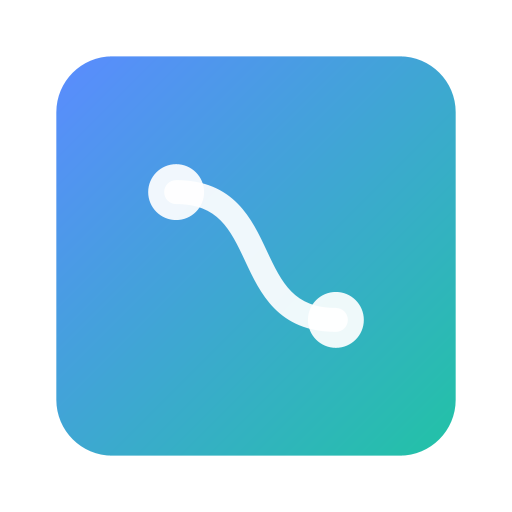
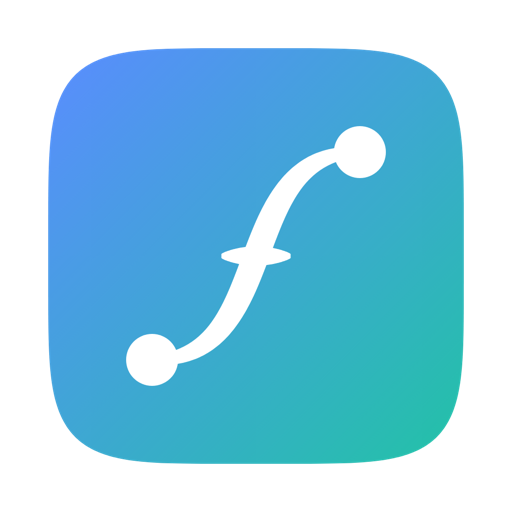
Rewrite the Flow intro page for the current app
The old page still pitched Flow as sources/transforms/sinks with a
built-in Crypto/Hash/Merge/Split/Sleep set — module install now goes
through a registry, categories are input/processor/output/part, and
neither AI-assisted building nor pluggable result views (ASN.1, Image)
were mentioned at all. Rewritten from the current app's own screenshots
and copy, with an EN/한국어 toggle. New app icon (the current wire-node
mark, not the old plain one).

Claude-Session: https://claude.ai/code/session_01QRGoVkwbWL6L911SzTzMtK

Changed region(s): [[0.2188, 0.2188, 0.7812, 0.7812], [0.0938, 0.0938, 0.9062, 0.9062]]

diff --git a/flow/index.html b/flow/index.html
@@ -3,8 +3,8 @@
 <head>
   <meta charset="utf-8">
   <meta name="viewport" content="width=device-width, initial-scale=1">
-  <title>Flow — Visual Dataflow Editor</title>
-  <meta name="description" content="Flow is a visual, node-based dataflow editor. Build data pipelines by wiring modules together — no code required.">
+  <title>Flow — a desktop workbench for connecting data</title>
+  <meta name="description" content="Flow is a desktop workbench for wiring data through modules on a canvas — install what you need from the market, build with AI, and read results in a view that suits them.">
   <link rel="icon" href="appicon.png">
   <style>
     :root {
@@ -16,15 +16,21 @@
       --dim: #8a90a2;
       --accent: #5b8cff;
       --accent-soft: #7aa1ff;
-      --green: #2b7a5c;
+      --yellow: #f2c94c;
+      --blue: #4fa3ff;
+      --purple: #b07bff;
+      --cyan: #62c6ff;
     }
     * { box-sizing: border-box; }
     html, body {
       margin: 0; padding: 0; background: var(--bg); color: var(--text);
-      font-family: -apple-system, BlinkMacSystemFont, "Segoe UI", Roboto, sans-serif;
+      font-family: -apple-system, BlinkMacSystemFont, "Segoe UI", Roboto, "Apple SD Gothic Neo", sans-serif;
     }
     a { color: inherit; }
-    .wrap { max-width: 980px; margin: 0 auto; padding: 0 24px; }
+    .wrap { max-width: 1040px; margin: 0 auto; padding: 0 24px; }
+    [lang-ko] { display: none; }
+    html[data-lang="ko"] [lang-en] { display: none; }
+    html[data-lang="ko"] [lang-ko] { display: revert; }
 
     header.top {
       border-bottom: 1px solid var(--border);
@@ -32,12 +38,24 @@
       backdrop-filter: blur(8px);
       position: sticky; top: 0; z-index: 10;
     }
-    header.top .wrap { display: flex; align-items: center; justify-content: space-between; height: 64px; }
+    header.top .wrap { display: flex; align-items: center; justify-content: space-between; height: 64px; gap: 16px; flex-wrap: wrap; }
     .brand { display: flex; align-items: center; gap: 10px; font-weight: 700; font-size: 17px; text-decoration: none; }
     .brand img { width: 28px; height: 28px; border-radius: 7px; }
-    .hero { padding: 72px 0 40px; text-align: center; }
-    .hero h1 { font-size: 40px; margin: 0 0 14px; letter-spacing: -0.02em; }
-    .hero p.tagline { font-size: 17px; color: var(--dim); max-width: 560px; margin: 0 auto 30px; line-height: 1.6; }
+    nav.crumbs { display: flex; gap: 20px; font-size: 13.5px; }
+    nav.crumbs a { color: var(--dim); text-decoration: none; }
+    nav.crumbs a:hover { color: var(--text); }
+
+    .langsw { display: flex; border: 1px solid var(--border); border-radius: 999px; overflow: hidden; font-size: 12.5px; }
+    .langsw button {
+      appearance: none; border: none; background: transparent; color: var(--dim);
+      padding: 6px 13px; font: inherit; cursor: pointer;
+    }
+    .langsw button.on { background: var(--accent); color: #fff; }
+
+    .hero { padding: 68px 0 40px; text-align: center; }
+    .hero img.mark { width: 64px; height: 64px; border-radius: 15px; margin: 0 auto 24px; display: block; }
+    .hero h1 { font-size: 40px; margin: 0 0 16px; letter-spacing: -0.02em; line-height: 1.2; }
+    .hero p.tagline { font-size: 16.5px; color: var(--dim); max-width: 620px; margin: 0 auto 30px; line-height: 1.7; }
 
     .cta-row { display: flex; gap: 12px; justify-content: center; flex-wrap: wrap; margin-bottom: 8px; }
     .btn {
@@ -51,32 +69,38 @@
     .btn.secondary:hover { border-color: var(--accent); }
     .platform-note { font-size: 12.5px; color: var(--dim); margin: 14px 0 0; }
 
-    .shot-wrap { padding: 12px 0 64px; }
-    .shot-frame {
-      border: 1px solid var(--border); border-radius: 14px; overflow: hidden;
-      box-shadow: 0 30px 80px -30px rgba(0,0,0,.6);
-    }
-    .shot-frame img { display: block; width: 100%; height: auto; }
+    section { padding: 60px 0; border-top: 1px solid var(--border); }
+    section.hero-shot { padding-top: 8px; border-top: none; }
+    .kicker { display: block; font-size: 12px; letter-spacing: .08em; text-transform: uppercase; color: var(--accent); margin-bottom: 16px; }
+    h2 { font-size: 28px; margin: 0; letter-spacing: -0.015em; line-height: 1.3; }
+    h3 { font-size: 18px; margin: 0; }
+    p.body { font-size: 15px; line-height: 1.8; color: var(--dim); margin: 16px 0 0; }
 
-    section.features { padding: 8px 0 72px; }
-    .grid { display: grid; grid-template-columns: repeat(3, 1fr); gap: 16px; }
-    .card {
-      background: var(--card); border: 1px solid var(--border); border-radius: 12px;
-      padding: 20px 20px 22px;
-    }
-    .card h3 { margin: 0 0 8px; font-size: 15px; }
-    .card p { margin: 0; font-size: 13.5px; color: var(--dim); line-height: 1.55; }
-    .dot { display: inline-block; width: 8px; height: 8px; border-radius: 50%; background: var(--accent); margin-right: 8px; }
+    .cols2 { display: grid; grid-template-columns: repeat(auto-fit, minmax(300px, 1fr)); gap: 28px 56px; align-items: start; }
+    figure { margin: 0; }
+    .shot { border: 1px solid var(--border); border-radius: 12px; overflow: hidden; box-shadow: 0 24px 60px -30px rgba(0,0,0,.6); }
+    .shot img { display: block; width: 100%; height: auto; }
 
-    section.modules { padding: 0 0 80px; }
-    section.modules h2 { font-size: 20px; margin: 0 0 6px; }
-    section.modules p.sub { color: var(--dim); font-size: 14px; margin: 0 0 22px; }
-    .mods { display: flex; flex-wrap: wrap; gap: 10px; }
-    .mod-pill {
-      background: var(--panel); border: 1px solid var(--border); border-radius: 999px;
-      padding: 8px 16px; font-size: 13px; color: var(--text);
-    }
-    .mod-pill b { color: var(--accent-soft); }
+    .pills { display: flex; gap: 8px; flex-wrap: wrap; margin-top: 26px; }
+    .pill { border-radius: 999px; padding: 6px 14px; font-size: 12.5px; border: 1px solid var(--border); }
+    .pill.idle { color: var(--dim); }
+    .pill.running { background: color-mix(in srgb, var(--accent) 20%, transparent); border-color: var(--accent); color: var(--accent-soft); }
+    .pill.done { background: color-mix(in srgb, #34c98e 18%, transparent); border-color: #2b7a5c; color: #6fe0b8; }
+    .pill.error { border-color: var(--dim); color: var(--dim); }
+
+    .grid4 { display: grid; grid-template-columns: repeat(auto-fit, minmax(220px, 1fr)); gap: 14px; margin-top: 32px; }
+    .card { background: var(--card); border: 1px solid var(--border); border-radius: 12px; padding: 18px 18px 20px; border-top: 2px solid var(--border); }
+    .card .kick { font-size: 10.5px; letter-spacing: .07em; color: var(--dim); margin-bottom: 6px; }
+    .card h4 { margin: 0 0 8px; font-size: 15px; }
+    .card p { margin: 0; font-size: 13.5px; color: var(--dim); line-height: 1.6; }
+    .card.in { border-top-color: var(--yellow); }
+    .card.pr { border-top-color: var(--purple); }
+    .card.out { border-top-color: var(--blue); }
+    .card.pt { border-top-color: var(--cyan); }
+
+    .stack { display: grid; gap: 16px; }
+    .views2 { display: grid; grid-template-columns: repeat(auto-fit, minmax(300px, 1fr)); gap: 40px 56px; margin-top: 8px; }
+    .views2 p.body { margin-bottom: 18px; }
 
     footer { border-top: 1px solid var(--border); padding: 28px 0; }
     footer .wrap { display: flex; justify-content: space-between; align-items: center; flex-wrap: wrap; gap: 12px; }
@@ -85,8 +109,8 @@
     footer .links a:hover { color: var(--text); }
 
     @media (max-width: 720px) {
-      .grid { grid-template-columns: 1fr; }
       .hero h1 { font-size: 30px; }
+      h2 { font-size: 23px; }
     }
   </style>
 </head>
@@ -94,60 +118,161 @@
 
   <header class="top">
     <div class="wrap">
-      <a class="brand" href="index.html"><img src="appicon.png" alt=""> Flow</a>
+      <a class="brand" href="/"><img src="appicon.png" alt=""> Flow</a>
+      <nav class="crumbs">
+        <a href="#canvas" lang-en>Canvas</a><a href="#canvas" lang-ko>캔버스</a>
+        <a href="#modules" lang-en>Modules</a><a href="#modules" lang-ko>모듈</a>
+        <a href="#market" lang-en>Market</a><a href="#market" lang-ko>마켓</a>
+        <a href="#ai">AI</a>
+        <a href="#views" lang-en>Views</a><a href="#views" lang-ko>결과 보기</a>
+      </nav>
+      <div class="langsw" role="group" aria-label="Language">
+        <button type="button" data-lang-btn="en">EN</button>
+        <button type="button" data-lang-btn="ko">한국어</button>
+      </div>
     </div>
   </header>
 
   <div class="hero">
     <div class="wrap">
-      <h1>Build data pipelines visually.</h1>
-      <p class="tagline">
-        Flow is a node-based dataflow editor — drag modules onto a canvas, wire them together,
-        and run the pipeline. Transform, encrypt, hash, merge, and split data without writing code.
-      </p>
+      <img class="mark" src="appicon.png" alt="Flow">
+      <h1 lang-en>A desktop workbench for connecting data</h1>
+      <h1 lang-ko>데이터를 연결해서 다루는 데스크톱 워크벤치</h1>
+      <p class="tagline" lang-en>Place the modules you need on the canvas and wire them together. Save a Flow as a file and drop it into another Flow as a part — and if the module you need doesn't exist, build it against the module interface and plug it in.</p>
+      <p class="tagline" lang-ko>원하는 모듈을 캔버스에 배치하고 선으로 연결하세요. 한 번 만든 Flow는 파일로 저장해 다른 Flow 안에 부품으로 쓸 수 있고, 필요한 모듈이 없다면 모듈 인터페이스를 지켜 직접 만들어 끼워 넣을 수 있습니다.</p>
       <div class="cta-row">
         <a class="btn primary" href="https://github.com/siprikorea/flow/releases/latest">
-          ⬇ Download for macOS
+          <span lang-en>⬇ Download for macOS</span><span lang-ko>⬇ macOS용 다운로드</span>
         </a>
-        <a class="btn secondary" href="https://github.com/siprikorea/flow/releases">All releases</a>
+        <a class="btn secondary" href="#canvas">
+          <span lang-en>How it works</span><span lang-ko>어떻게 동작하나</span>
+        </a>
       </div>
-      <p class="platform-note">Free, and built with Kotlin Multiplatform. Windows &amp; Linux coming soon.</p>
+      <p class="platform-note" lang-en>Free, and built with Kotlin Multiplatform. Windows &amp; Linux coming soon.</p>
+      <p class="platform-note" lang-ko>무료이며 Kotlin Multiplatform으로 만들었습니다. Windows·Linux는 준비 중입니다.</p>
     </div>
   </div>
 
-  <div class="shot-wrap wrap">
-    <div class="shot-frame">
-      <img src="hero.png" alt="Flow canvas: Input and Key feed a Crypto module, Input also feeds a Hash module, and both outputs merge into Output">
-    </div>
-  </div>
+  <section class="hero-shot wrap">
+    <figure class="shot">
+      <img src="canvas.png" alt="Flow canvas: Message, KEY and IV feed a Cipher module wired to an Output node">
+    </figure>
+  </section>
 
-  <section class="features wrap">
-    <div class="grid">
-      <div class="card">
-        <h3><span class="dot"></span>Visual canvas</h3>
-        <p>Drop modules on an infinite canvas and connect their ports. Watch data travel the wires as your pipeline runs.</p>
+  <section id="canvas" class="wrap">
+    <span class="kicker">01 — <span lang-en>Canvas</span><span lang-ko>캔버스</span></span>
+    <div class="cols2">
+      <div>
+        <h2 lang-en>The flow is exactly what's on screen</h2>
+        <h2 lang-ko>흐름은 화면에 그려진 그대로다</h2>
+        <p class="body" lang-en>Drag input, processing and output modules onto the canvas and connect them with wires. On run, each node changes color, so you can see how far it got and where it stopped — right on the canvas.</p>
+        <p class="body" lang-ko>입력 · 처리 · 출력 모듈을 끌어 놓고 선으로 잇습니다. 실행하면 각 노드의 색이 바뀌므로 어디까지 진행됐고 어디서 멈췄는지 캔버스에서 바로 보입니다.</p>
+        <p class="body" lang-en>Unconnected ports are flagged before the run, and the minimap at the bottom right shows where you are once the flow grows past the screen.</p>
+        <p class="body" lang-ko>연결되지 않은 포트는 실행 전에 표시되고, 오른쪽 아래 미니맵이 흐름이 화면 밖으로 커졌을 때 현재 위치를 알려 줍니다.</p>
+        <div class="pills">
+          <span class="pill idle" lang-en>Idle</span><span class="pill idle" lang-ko>대기</span>
+          <span class="pill running" lang-en>Running</span><span class="pill running" lang-ko>실행 중</span>
+          <span class="pill done" lang-en>Done</span><span class="pill done" lang-ko>완료</span>
+          <span class="pill error" lang-en>Error</span><span class="pill error" lang-ko>오류</span>
+        </div>
       </div>
-      <div class="card">
-        <h3><span class="dot"></span>Extensible</h3>
-        <p>Write your own module as a small JAR and install it — no rebuild of the app required.</p>
+      <figure class="shot"><img src="modules.png" alt="The module list: Inputs, Outputs and Crypto categories"></figure>
+    </div>
+  </section>
+
+  <section id="modules" class="wrap">
+    <span class="kicker">02 — <span lang-en>Modules</span><span lang-ko>모듈</span></span>
+    <h2 lang-en>Four kinds, that's all</h2>
+    <h2 lang-ko>네 종류가 전부다</h2>
+    <p class="body" lang-en style="max-width:56ch">Only four things can go on a Flow, and the color tells you which is which. Together they are called modules.</p>
+    <p class="body" lang-ko style="max-width:56ch">Flow에 놓을 수 있는 것은 네 가지뿐이고, 색만 봐도 어느 쪽인지 알 수 있습니다. 이 넷을 아울러 모듈(Module)이라고 부릅니다.</p>
+    <div class="grid4">
+      <div class="card in">
+        <div class="kick">INPUT</div>
+        <h4 lang-en>Input</h4><h4 lang-ko>입력</h4>
+        <p lang-en>Holds the values that enter the flow. Type them as a string or hex, or feed in a file.</p>
+        <p lang-ko>흐름에 들어갈 값을 담당합니다. 문자열과 16진수로 입력하거나, 파일을 그대로 넣을 수 있습니다.</p>
       </div>
-      <div class="card">
-        <h3><span class="dot"></span>Byte-accurate</h3>
-        <p>Ports carry raw bytes, with hex and string editors built in, so binary data stays intact end to end.</p>
+      <div class="card pr">
+        <div class="kick">PROCESSOR</div>
+        <h4 lang-en>Processor</h4><h4 lang-ko>프로세서</h4>
+        <p lang-en>Takes a value, processes it and emits a result. Hashing, encryption, signing and encoding happen here.</p>
+        <p lang-ko>값을 받아 처리하고 결과를 내보냅니다. 해시 · 암호화 · 서명 · 인코딩 같은 실제 작업이 여기서 일어납니다.</p>
+      </div>
+      <div class="card out">
+        <div class="kick">OUTPUT</div>
+        <h4 lang-en>Output</h4><h4 lang-ko>출력</h4>
+        <p lang-en>Receives the processed result so you can read it — as a string, as hex, or in an output module you wrote yourself.</p>
+        <p lang-ko>처리된 결과를 받아 확인합니다. 문자열 · 16진수로 보거나, 출력 모듈을 직접 만들어 원하는 형태로 볼 수 있습니다.</p>
+      </div>
+      <div class="card pt">
+        <div class="kick">FLOW</div>
+        <h4 lang-en>Part</h4><h4 lang-ko>부품</h4>
+        <p lang-en>Drop a saved flow into another flow as a single module. A combination you use often simply becomes a part.</p>
+        <p lang-ko>저장해 둔 흐름을 다른 흐름 안에 모듈 하나로 넣습니다. 자주 쓰는 조합이 그대로 부품이 됩니다.</p>
       </div>
     </div>
   </section>
 
-  <section class="modules wrap">
-    <h2>Built in</h2>
-    <p class="sub">Six modules ship with Flow out of the box.</p>
-    <div class="mods">
-      <span class="mod-pill"><b>Crypto</b> — AES / DES / 3DES / Blowfish, selectable mode &amp; padding</span>
-      <span class="mod-pill"><b>Hash</b> — MD5 / SHA-1 / SHA-256 / SHA-512</span>
-      <span class="mod-pill"><b>Base64</b> — encode / decode</span>
-      <span class="mod-pill"><b>Merge</b></span>
-      <span class="mod-pill"><b>Split</b></span>
-      <span class="mod-pill"><b>Sleep</b></span>
+  <section id="market" class="wrap">
+    <span class="kicker">03 — <span lang-en>Market</span><span lang-ko>마켓</span></span>
+    <div class="cols2">
+      <div>
+        <h2 lang-en>Install only what you need</h2>
+        <h2 lang-ko>필요한 것만 골라 설치</h2>
+        <p class="body" lang-en>From the market in settings, install and remove modules published to the module repository, and update them when a new version lands. Everything installed collects in the module list, ready to drag straight onto the canvas.</p>
+        <p class="body" lang-ko>설정 화면의 마켓에서 모듈 저장소에 올라온 모듈을 설치하고 삭제하며, 새 버전이 나오면 업데이트합니다. 설치한 모듈은 모듈 리스트에 모이고, 거기서 캔버스로 바로 끌어다 쓰면 됩니다.</p>
+      </div>
+      <figure class="shot"><img src="market.png" alt="The Modules settings screen: a marketplace list with Slack selected, showing its version, description and settings"></figure>
+    </div>
+  </section>
+
+  <section id="ai" class="wrap">
+    <span class="kicker">04 — AI</span>
+    <div class="cols2">
+      <div>
+        <h2 lang-en>Build and edit a Flow with AI</h2>
+        <h2 lang-ko>AI로 Flow를 만들고 고친다</h2>
+        <p class="body" lang-en>Describe the flow you want and AI assembles the complicated parts for you. Feed in the data, run it, read the result — and edit the generated flow by hand on the canvas whenever you like.</p>
+        <p class="body" lang-ko>원하는 흐름을 말로 설명하면 AI가 복잡한 Flow를 대신 구성합니다. 데이터만 넣고 실행해 결과를 확인하세요. 만들어진 Flow는 언제든 캔버스에서 직접 손볼 수 있습니다.</p>
+      </div>
+      <figure class="shot"><img src="ai.png" alt="The AI panel building an AES encryption flow from a one-line request, with the finished node graph on the canvas"></figure>
+    </div>
+  </section>
+
+  <section id="views" class="wrap">
+    <span class="kicker">05 — <span lang-en>Views</span><span lang-ko>결과 보기</span></span>
+    <h2 lang-en>Read the result the easy way</h2>
+    <h2 lang-ko>결과를 쉽게 확인</h2>
+    <p class="body" lang-en style="max-width:56ch">Some things a string or a hex dump will never tell you. Extend the output module and read the result in the view that suits it.</p>
+    <p class="body" lang-ko style="max-width:56ch">문자열이나 16진수만으로는 알 수 없는 것이 있습니다. 출력 모듈을 확장해 필요한 화면에서 결과를 보세요.</p>
+    <div class="views2">
+      <div>
+        <h3 lang-en>ASN.1 — structure beside bytes</h3>
+        <h3 lang-ko>ASN.1 — 구조와 바이트를 나란히</h3>
+        <p class="body" lang-en>Signature data in hex tells you almost nothing about what was produced. Pick a node in the DER tree on the left and its hex appears on the right, with Tag and Length below.</p>
+        <p class="body" lang-ko>전자서명 데이터는 16진수만 봐서는 무엇이 만들어졌는지 알기 어렵습니다. 왼쪽 DER 트리에서 노드를 고르면 오른쪽에 해당 구간의 16진수가, 아래에 Tag와 Length가 표시됩니다.</p>
+        <figure class="shot"><img src="asn1.png" alt="The ASN.1 view: a DER tree on the left, hex dump on the right"></figure>
+      </div>
+      <div>
+        <h3 lang-en>IMAGE — image data as an image</h3>
+        <h3 lang-ko>IMAGE — 이미지 데이터는 이미지로</h3>
+        <p class="body" lang-en>See the image a processor produced exactly as it is, with its metadata alongside.</p>
+        <p class="body" lang-ko>프로세서가 만든 이미지를 그대로 띄워 보고, 이미지 메타데이터까지 함께 확인합니다.</p>
+        <figure class="shot"><img src="image-view.png" alt="The Image view showing a generated QR code"></figure>
+      </div>
+    </div>
+  </section>
+
+  <section class="wrap" style="padding-bottom:8px">
+    <h2 lang-en style="font-size:26px">Your own views, and anything else you need</h2>
+    <h2 lang-ko style="font-size:26px">원하는 뷰까지, 원하는 무엇이든</h2>
+    <p class="body" lang-en style="max-width:52ch">Write modules, save flows as parts, extend the result views. Flow is the bench you assemble them on.</p>
+    <p class="body" lang-ko style="max-width:52ch">모듈을 만들고, 흐름을 부품으로 저장하고, 결과 화면까지 확장하세요. Flow는 그 조립을 위한 작업대입니다.</p>
+    <div class="cta-row" style="justify-content:flex-start;margin-top:26px">
+      <a class="btn primary" href="https://github.com/siprikorea/flow/releases/latest">
+        <span lang-en>Start with Flow</span><span lang-ko>Flow 시작하기</span>
+      </a>
     </div>
   </section>
 
@@ -160,6 +285,32 @@
       </div>
     </div>
   </footer>
+
+  <script>
+    (function () {
+      var root = document.documentElement;
+      var saved = null;
+      try { saved = localStorage.getItem('flow-lang'); } catch (e) {}
+      var lang = (saved === 'ko' || saved === 'en') ? saved
+        : (navigator.language || '').toLowerCase().indexOf('ko') === 0 ? 'ko' : 'en';
+      apply(lang);
+
+      document.querySelectorAll('[data-lang-btn]').forEach(function (btn) {
+        btn.addEventListener('click', function () {
+          apply(btn.getAttribute('data-lang-btn'));
+          try { localStorage.setItem('flow-lang', btn.getAttribute('data-lang-btn')); } catch (e) {}
+        });
+      });
+
+      function apply(l) {
+        root.setAttribute('data-lang', l);
+        root.setAttribute('lang', l);
+        document.querySelectorAll('[data-lang-btn]').forEach(function (btn) {
+          btn.classList.toggle('on', btn.getAttribute('data-lang-btn') === l);
+        });
+      }
+    })();
+  </script>
 
 </body>
 </html>
